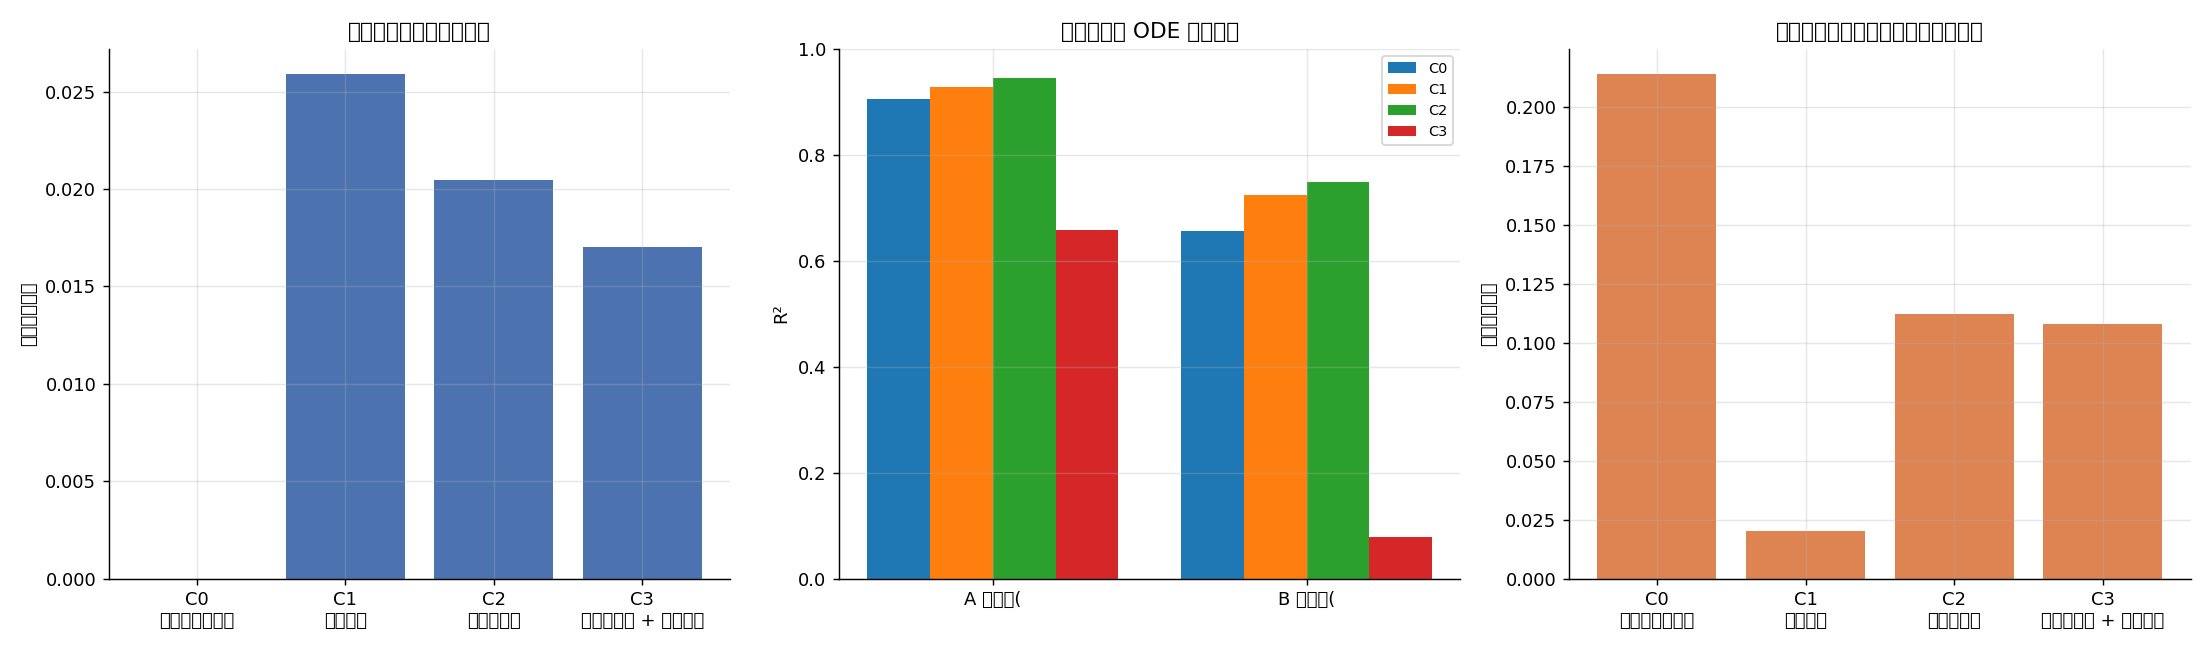
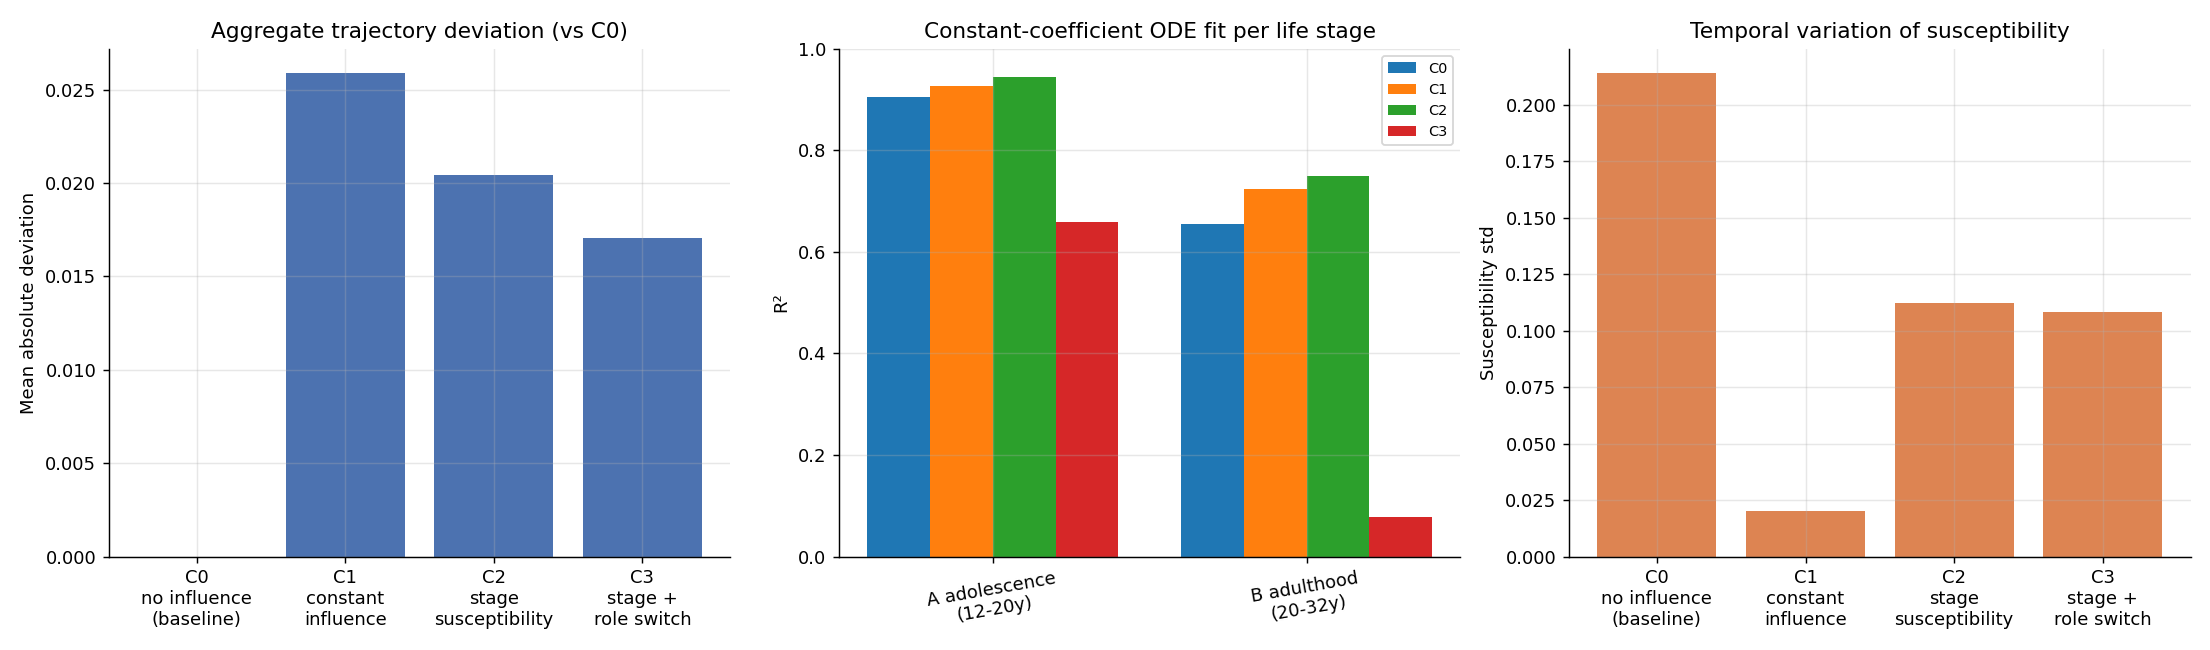
chore(experiments): 图表标签统一英文 + 清理未用导入
- 实验图会被单独取出放进幻灯片，不应依赖系统中文字体
  （DejaVu Sans 无 CJK 字形，中文会渲染成方块）
- 移除已无用的字体探测与标签映射逻辑，换为 EN_LABELS
- ruff 通过

diff --git a/experiments/life_stage_reducibility.py b/experiments/life_stage_reducibility.py
@@ -39,7 +39,6 @@ from __future__ import annotations
 import argparse
 import json
 import sys
-from dataclasses import dataclass, field
 from pathlib import Path
 
 import numpy as np
@@ -96,6 +95,16 @@ STAGE_WINDOWS = [
 ]
 
 STATE_COLUMNS = ["state_happiness", "state_stress"]
+
+# 图表英文标签（图会被单独放进幻灯片，避免字体依赖）
+EN_LABELS: dict[str, str] = {
+    "A 青春期(12-20岁)": "A adolescence\n(12-20y)",
+    "B 成年后(20-32岁)": "B adulthood\n(20-32y)",
+    "无影响（基线）": "no influence\n(baseline)",
+    "影响恒定": "constant\ninfluence",
+    "阶段易感性": "stage\nsusceptibility",
+    "阶段易感性 + 角色切换": "stage +\nrole switch",
+}
 
 
 # ── 仿真 ────────────────────────────────────────────────────────────────────
@@ -309,22 +318,29 @@ def _fmt(value) -> str:
 
 
 def _plot(results: dict, path: Path) -> None:
-    """三张图：轨迹偏离、易感性变化、全窗口 vs 分段 R²。"""
+    """三张图：轨迹偏离、易感性的时间变异、分段 R²。
+
+    图表标签一律用英文：中文字形依赖系统字体（DejaVu Sans 无 CJK 字形，
+    中文会渲染成方块），而实验图常被单独取出放进幻灯片，不应带上字体依赖。
+    中文说明见 README。
+    """
     import matplotlib
     matplotlib.use("Agg")
     import matplotlib.pyplot as plt
 
     keys = list(results["conditions"])
-    labels = [f"{key}\n{results['conditions'][key]['label']}" for key in keys]
+    labels = [f"{key}\n{EN_LABELS.get(results['conditions'][key]['label'], results['conditions'][key]['label'])}"
+              for key in keys]
 
     fig, axes = plt.subplots(1, 3, figsize=(17, 5))
 
     axes[0].bar(labels, [results["conditions"][k]["deviation"]["mean_abs"] for k in keys],
                 color="#4c72b0")
-    axes[0].set_title("聚合轨迹相对基线的偏离")
-    axes[0].set_ylabel("平均绝对偏离")
+    axes[0].set_title("Aggregate trajectory deviation (vs C0)")
+    axes[0].set_ylabel("Mean absolute deviation")
 
-    windows = [lab for lab, _, _ in STAGE_WINDOWS if lab in results["conditions"][keys[0]]["reducibility"]["stages"]]
+    windows = [lab for lab, _, _ in STAGE_WINDOWS
+               if lab in results["conditions"][keys[0]]["reducibility"]["stages"]]
     width = 0.8 / max(1, len(keys))
     positions = np.arange(len(windows))
     for index, key in enumerate(keys):
@@ -332,16 +348,16 @@ def _plot(results: dict, path: Path) -> None:
                   for lab in windows]
         axes[1].bar(positions + index * width, values, width, label=key)
     axes[1].set_xticks(positions + 0.4 - width / 2)
-    axes[1].set_xticklabels([lab[:6] for lab in windows])
-    axes[1].set_title("分段常系数 ODE 拟合优度")
+    axes[1].set_xticklabels([EN_LABELS.get(lab, lab) for lab in windows], rotation=10)
+    axes[1].set_title("Constant-coefficient ODE fit per life stage")
     axes[1].set_ylabel("R²")
     axes[1].set_ylim(0, 1)
     axes[1].legend(fontsize=8)
 
     axes[2].bar(labels, [results["conditions"][k]["influence"]["overall"]["std_openness"] for k in keys],
                 color="#dd8452")
-    axes[2].set_title("易感性的时间变异（系数是否恒定）")
-    axes[2].set_ylabel("易感性标准差")
+    axes[2].set_title("Temporal variation of susceptibility")
+    axes[2].set_ylabel("Susceptibility std")
 
     fig.tight_layout()
     fig.savefig(path, dpi=130)
